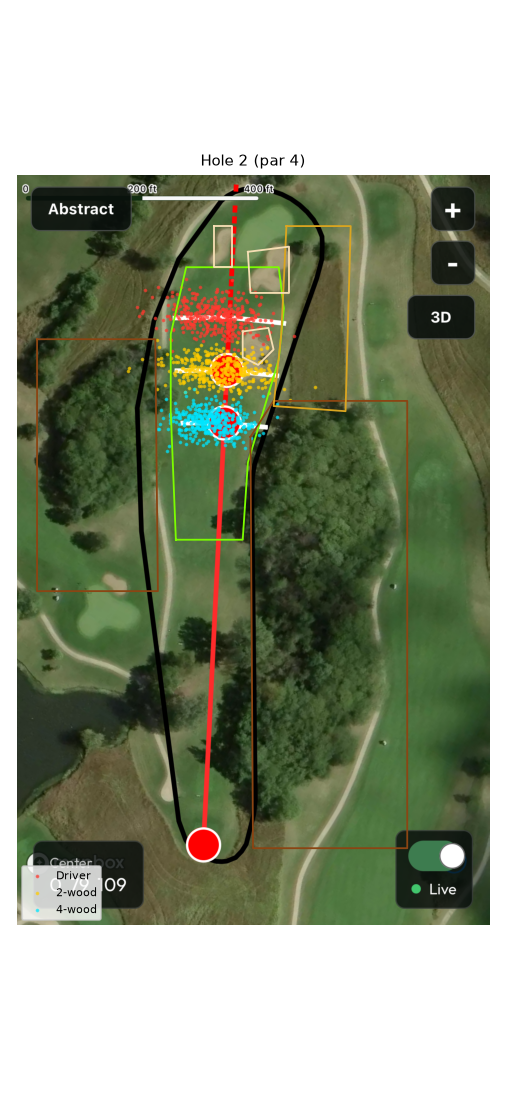
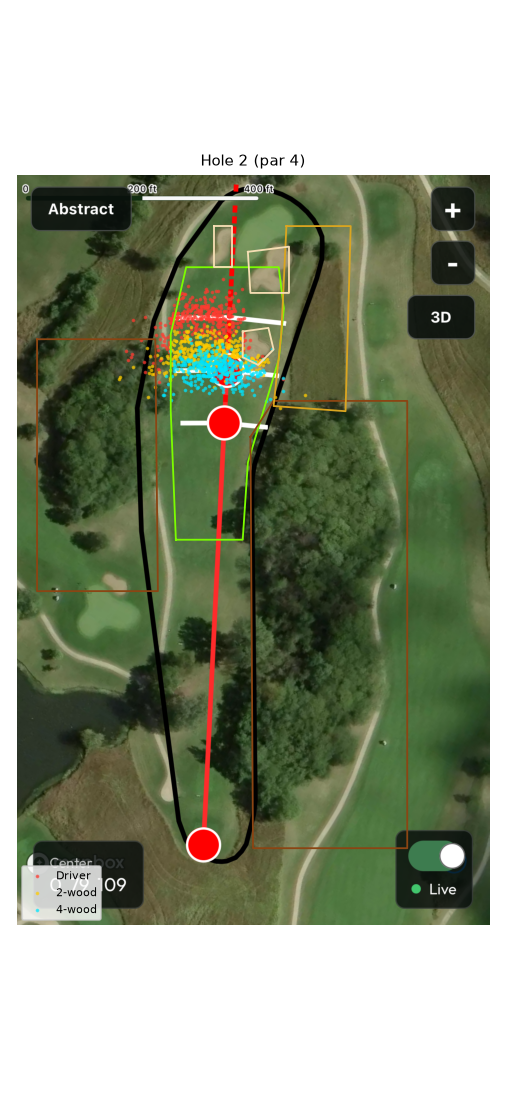
Model carry + rollout, update club numbers, add what-if scenarios
Driver 275/300, 2-wood 265/280, 4-wood 255/270 (carry/total). Balls now
land at carry and roll out, stopping in hazards. scenarios.py covers
wider dispersion, hole 2 driver carry, hole 4 prairie distance and a
shorter 4-wood on hole 1.

Claude-Session: https://claude.ai/code/session_011rKvZuUcU769YfPfktPsds

Changed region(s): [[0.2372, 0.2473, 0.5632, 0.4018]]

diff --git a/mozingo/tee_strategy.py b/mozingo/tee_strategy.py
@@ -3,7 +3,8 @@
 For each hole and each tee club we:
   1. Model the shot pattern as a 2-D normal around the aim point. The lateral
      "dispersion" width from the GPS app (65 / 60 / 50 yds) is treated as the
-     ~95% window (+/- 2 sigma), as in Fawcett's shot-pattern ellipses.
+     ~95% window (+/- 2 sigma), as in Fawcett's shot-pattern ellipses. Balls
+     land at carry, then roll out (less in rough, not at all in a hazard).
   2. Drop thousands of simulated tee shots onto hazard polygons traced from
      the satellite screenshots in ./screenshots.
   3. Score every landing spot with strokes-gained baselines (expected strokes
@@ -25,12 +26,14 @@ HERE = os.path.dirname(os.path.abspath(__file__))
 RNG = np.random.default_rng(7)
 N_SHOTS = 20000
 
-# name: (total yards, lateral 95% width, depth 95% window)
+# name: (carry yds, total yds on fairway, lateral 95% width, carry-depth 95% window)
 CLUBS = {
-    "Driver": (300, 65, 28),
-    "2-wood": (270, 60, 26),
-    "4-wood": (240, 50, 24),
+    "Driver": (275, 300, 65, 28),
+    "2-wood": (265, 280, 60, 26),
+    "4-wood": (255, 270, 50, 24),
 }
+ROUGH_ROLL = 0.3    # share of remaining roll kept once the ball is in rough
+HAZARDS = ("sand", "recovery", "native", "water")   # ball stops where it lands/enters
 
 # Expected strokes to hole out (Broadie, PGA Tour baseline), by distance in yds.
 DIST = [20, 40, 60, 80, 100, 120, 140, 160, 180, 200, 220, 240, 260, 280, 300]
@@ -130,17 +133,40 @@ def hole_frame(h):
     return tee, fwd, right, px_per_yd
 
 
+def lie_at(h, pts):
+    lie = np.array(["rough"] * len(pts), dtype=object)
+    for name, poly in h["zones"]:
+        lie[Path(poly).contains_points(pts)] = name
+    return lie
+
+
 def simulate(hole_no, club, aim_lat=0.0, n=N_SHOTS):
     h = HOLES[hole_no]
     tee, fwd, right, ppy = hole_frame(h)
-    dist, width, depth = CLUBS[club]
-    along = RNG.normal(dist, depth / 4, n)
+    carry, total, width, depth = CLUBS[club]
+    along = RNG.normal(carry, depth / 4, n)
     lat = RNG.normal(aim_lat, width / 4, n)
     pts = tee + (along[:, None] * fwd + lat[:, None] * right) * ppy
+    lie = lie_at(h, pts)
 
-    lie = np.array(["rough"] * n, dtype=object)
-    for name, poly in h["zones"]:
-        lie[Path(poly).contains_points(pts)] = name
+    # Roll out along the flight line in 2-yd steps: full roll on fairway,
+    # ROUGH_ROLL of it in rough, and the ball stops dead in any hazard.
+    heading = (pts - tee) / np.linalg.norm(pts - tee, axis=1)[:, None]
+    roll_left = np.full(n, float(total - carry))
+    roll_left[lie == "rough"] *= ROUGH_ROLL
+    while True:
+        moving = (roll_left > 0) & ~np.isin(lie, HAZARDS)
+        if not moving.any():
+            break
+        step = np.minimum(roll_left[moving], 2.0)
+        pts[moving] += heading[moving] * (step * ppy)[:, None]
+        roll_left[moving] -= step
+        new_lie = lie_at(h, pts[moving])
+        into_rough = (new_lie == "rough") & (lie[moving] == "fairway")
+        idx = np.flatnonzero(moving)
+        roll_left[idx[into_rough]] *= ROUGH_ROLL
+        lie[moving] = new_lie
+
     to_green = np.linalg.norm(pts - np.array(h["green"], float), axis=1) / ppy
 
     strokes = np.empty(n)

diff --git a/mozingo/scenarios.py b/mozingo/scenarios.py
@@ -1,0 +1,43 @@
+"""What-if checks on top of tee_strategy.py (run: python3 mozingo/scenarios.py)."""
+import copy
+import tee_strategy as t
+
+BASE_CLUBS = dict(t.CLUBS)
+BASE_HOLES = copy.deepcopy(t.HOLES)
+
+
+def compare(hole_no, label):
+    r = {c: t.best_aim(hole_no, c) for c in t.CLUBS}
+    best = min(r, key=lambda c: r[c]["ev"])
+    cells = ", ".join(f"{c} {r[c]['ev'] - r[best]['ev']:+.3f} (aim {r[c]['aim']:+.1f})" for c in r)
+    print(f"  {label:<38} best={best:<7} | {cells}")
+
+
+print("1) Wider-than-app dispersion (all clubs x1.3)")
+t.CLUBS = {k: (c, tot, w * 1.3, d) for k, (c, tot, w, d) in BASE_CLUBS.items()}
+for h in t.HOLES:
+    compare(h, f"hole {h}")
+t.CLUBS = dict(BASE_CLUBS)
+
+print("\n2) Hole 2: how much does the driver's carry matter?")
+for carry in (265, 275, 290, 305):
+    t.CLUBS = dict(BASE_CLUBS, Driver=(carry, carry + 25, 65, 28))
+    compare(2, f"driver carry {carry} / total {carry + 25}")
+t.CLUBS = dict(BASE_CLUBS)
+
+print("\n3) Hole 4: move the left prairie toward the line until 2-wood wins")
+# traced edge sits ~40 yds left of the app line at 300 yds; push its right edge in.
+ppy = t.hole_frame(t.HOLES[4])[3]
+for yds_in in (0, 10, 15, 20, 25, 30):
+    t.HOLES = copy.deepcopy(BASE_HOLES)
+    zones = t.HOLES[4]["zones"]
+    i = next(i for i, z in enumerate(zones) if z[0] == "native")
+    dx = yds_in * ppy
+    zones[i] = ("native", [(200, 550), (370 + dx, 550), (365 + dx, 900), (200, 900)])
+    compare(4, f"prairie edge {40 - yds_in} yds left of line")
+t.HOLES = copy.deepcopy(BASE_HOLES)
+
+print("\n4) Hole 1: 4-wood shorter & tighter (240 carry / 260 total, 45 wide)")
+t.CLUBS = dict(BASE_CLUBS, **{"4-wood": (240, 260, 45, 22)})
+compare(1, "4-wood 240/260")
+t.CLUBS = dict(BASE_CLUBS)

diff --git a/mozingo/README.md b/mozingo/README.md
@@ -1,36 +1,45 @@
 # Mozingo Lake GC — tee-club strategy (Fawcett / DECADE method)
 
-Clubs (from the GPS app): **Driver 300 yds / 65 yd dispersion**, **2-wood 270 / 60**, **4-wood 240 / 50**.
+Clubs (carry / total on fairway / lateral dispersion):
+**Driver 275 / 300 / 65**, **2-wood 265 / 280 / 60**, **4-wood 255 / 270 / 50**.
 
 Run it: `python3 mozingo/tee_strategy.py` (needs `numpy`, `matplotlib`). Writes
 `output/results_table.md` and one shot-pattern overlay per hole.
+`python3 mozingo/scenarios.py` runs the what-if checks below.
 
 ## Recommendations (holes 1–6, par 3 #5 skipped)
 
-| Hole | Par | Play | Aim | Strokes saved vs next-best club |
-|---|---|---|---|---|
-| 1 | 4 | **2-wood** | ~2 yds right of app line | 0.03 vs driver, 0.06 vs 4-wood |
-| 2 | 4 | **Driver** | ~7 yds left (away from bunker / trees / prairie on the right) | 0.09 vs 2-wood |
-| 3 | 5 | **Driver** | ~10 yds left (trees line the right side) | 0.19 vs 2-wood |
-| 4 | 4 | **Driver** | on the line | 0.07 vs 2-wood |
-| 6 | 5 | **Driver** | on the line (lake is ~100 yds left, out of play) | 0.19 vs 2-wood |
+| Hole | Play | Aim | Margin over next-best club |
+|---|---|---|---|
+| 1 (par 4) | **4-wood** (2-wood is equal) | ~2 yds right of app line | 0.006 vs 2-wood, 0.03 vs driver |
+| 2 (par 4) | **4-wood** | ~5 yds left | 0.03 vs driver |
+| 3 (par 5) | **Driver** | ~12 yds left (trees line the right side) | 0.11 vs 2-wood |
+| 4 (par 4) | **Driver** | on the line | 0.05 vs 2-wood |
+| 6 (par 5) | **Driver** | ~5 yds left | 0.13 vs 2-wood |
 
-Hole 1 is the only lay-up. At 300 the driver pattern reaches the tree clump
-on the left (270–320 yds) and the trees right of the cart path (~10–12% of
-drives end up blocked). The 2-wood stays short of most of that and still
-leaves only about 100 yds. It's close (0.03 strokes), so take driver if
-the wind is helping and the pin is easy. Everywhere else the extra 30 yds is
-worth more than the extra misses. That's Fawcett's usual result: lay up only
-when a penalty or a blocked-out lie sits inside the driver pattern but
-outside the shorter club's pattern.
+## What-if checks (`scenarios.py`)
 
-The picks hold if your real dispersion is 30% wider than the app's numbers.
-Hole 1 then favours the 2-wood by more (0.07).
+- **Hole 1, 4-wood:** with the 255-carry 4-wood, it ties the 2-wood. Both beat
+  driver because about 8% of drives finish in the trees at 270–320. Hitting
+  the shorter 4-wood (240 carry / 260 total) costs about 0.01 strokes.
+  The extra accuracy doesn't pay for the extra 10 yds.
+- **Hole 2, driver carry:** with a 275 carry, the driver lands right on the
+  bunker on the right (273–294 yds), and about 10% finish in sand. The
+  4-wood stays short of it. Driver only wins again once it carries about
+  290 (e.g. downwind), because then it flies the bunker.
+- **Hole 4, left prairie:** traced, the prairie edge is ~40 yds left of the
+  line at 300+. Driver reaches it <1% of the time. 2-wood only becomes
+  correct if that edge is within ~17 yds of the line. Driver is the play
+  unless the prairie is a lot closer than the satellite image shows.
+- **Dispersion 30% wider than the app's:** same picks on every hole, and
+  bigger margins for the 4-wood on holes 1 and 2.
 
 ## Method
 
-1. **Shot pattern:** 2-D normal around the aim point. The app's dispersion
-   width is treated as ±2σ (95% of shots), and the depth window is ±2σ ≈ 24–28 yds.
+1. **Shot pattern:** carry spot is a 2-D normal around the aim point. The
+   app's dispersion width is treated as ±2σ (95% of shots), and the carry-depth
+   window is ±2σ ≈ 24–28 yds. The ball then rolls out along its line: full roll
+   on fairway, 30% in rough, and none once it is in a hazard.
 2. **Course map:** fairway, trees, bunkers, native prairie and water polygons
    traced from the satellite screenshots in `screenshots/`. Yardage scale is
    calibrated from the app's own 270-yd dot on every hole.
@@ -46,4 +55,4 @@ Hole 1 then favours the 2-wood by more (0.07).
   Hole 4's imagery is cloud-shadowed, so its fairway edges are a best guess.
 - Tour baselines make the absolute scores optimistic. The *differences*
   between clubs are what matter.
-- Elevation, wind and rollout aren't modelled. The club distances are total yards.
+- Elevation, wind and slope-driven roll aren't modelled.

diff --git a/mozingo/output/results_table.md b/mozingo/output/results_table.md
@@ -1,17 +1,17 @@
 | Hole | Par | Club | Aim (yds, +R) | Approach left | Fairway | Rough | Sand | Trees | Native | Water | Exp. score | vs best |
 |---|---|---|---|---|---|---|---|---|---|---|---|---|
-| 1 | 4 | Driver | +7.5 | 73 | 81% | 7% | 0% | 12% | 0% | 0% | 3.870 | +0.029 |
-| 1 | 4 | 2-wood **<- play** | +2.5 | 103 | 91% | 8% | 0% | 2% | 0% | 0% | 3.841 | +0.000 |
-| 1 | 4 | 4-wood | +2.5 | 132 | 96% | 4% | 0% | 0% | 0% | 0% | 3.896 | +0.055 |
-| 2 | 4 | Driver **<- play** | -7.5 | 54 | 89% | 8% | 3% | 0% | 1% | 0% | 3.709 | +0.000 |
-| 2 | 4 | 2-wood | -5.0 | 82 | 92% | 3% | 3% | 1% | 1% | 0% | 3.797 | +0.088 |
-| 2 | 4 | 4-wood | -7.5 | 111 | 94% | 3% | 0% | 2% | 0% | 0% | 3.858 | +0.149 |
-| 3 | 5 | Driver **<- play** | -10.0 | 218 | 94% | 6% | 0% | 0% | 0% | 0% | 4.319 | +0.000 |
-| 3 | 5 | 2-wood | -17.5 | 248 | 96% | 3% | 0% | 1% | 0% | 0% | 4.510 | +0.191 |
-| 3 | 5 | 4-wood | -20.0 | 278 | 99% | 1% | 0% | 0% | 0% | 0% | 4.680 | +0.360 |
-| 4 | 4 | Driver **<- play** | +2.5 | 63 | 92% | 8% | 0% | 0% | 0% | 0% | 3.724 | +0.000 |
-| 4 | 4 | 2-wood | +0.0 | 92 | 92% | 8% | 0% | 0% | 0% | 0% | 3.798 | +0.074 |
-| 4 | 4 | 4-wood | +2.5 | 122 | 95% | 5% | 0% | 0% | 0% | 0% | 3.867 | +0.144 |
-| 6 | 5 | Driver **<- play** | -2.5 | 192 | 98% | 2% | 0% | 0% | 0% | 0% | 4.153 | +0.000 |
-| 6 | 5 | 2-wood | -7.5 | 222 | 97% | 1% | 2% | 0% | 0% | 0% | 4.343 | +0.191 |
-| 6 | 5 | 4-wood | -7.5 | 252 | 99% | 0% | 1% | 0% | 0% | 0% | 4.530 | +0.378 |
+| 1 | 4 | Driver | +5.0 | 75 | 77% | 15% | 0% | 8% | 0% | 0% | 3.854 | +0.032 |
+| 1 | 4 | 2-wood | +2.5 | 94 | 87% | 11% | 0% | 2% | 0% | 0% | 3.828 | +0.006 |
+| 1 | 4 | 4-wood **<- play** | +2.5 | 103 | 94% | 6% | 0% | 0% | 0% | 0% | 3.822 | +0.000 |
+| 2 | 4 | Driver | -12.5 | 60 | 73% | 13% | 10% | 4% | 1% | 0% | 3.810 | +0.031 |
+| 2 | 4 | 2-wood | -10.0 | 74 | 83% | 6% | 7% | 2% | 1% | 0% | 3.817 | +0.037 |
+| 2 | 4 | 4-wood **<- play** | -5.0 | 81 | 95% | 2% | 2% | 1% | 0% | 0% | 3.780 | +0.000 |
+| 3 | 5 | Driver **<- play** | -12.5 | 219 | 90% | 8% | 0% | 2% | 0% | 0% | 4.344 | +0.000 |
+| 3 | 5 | 2-wood | -17.5 | 238 | 94% | 5% | 0% | 1% | 0% | 0% | 4.455 | +0.111 |
+| 3 | 5 | 4-wood | -17.5 | 248 | 98% | 2% | 0% | 0% | 0% | 0% | 4.507 | +0.163 |
+| 4 | 4 | Driver **<- play** | +0.0 | 63 | 89% | 11% | 0% | 0% | 0% | 0% | 3.732 | +0.000 |
+| 4 | 4 | 2-wood | +0.0 | 83 | 91% | 9% | 0% | 0% | 0% | 0% | 3.777 | +0.046 |
+| 4 | 4 | 4-wood | +0.0 | 92 | 95% | 5% | 0% | 0% | 0% | 0% | 3.791 | +0.059 |
+| 6 | 5 | Driver **<- play** | -5.0 | 192 | 96% | 2% | 1% | 0% | 1% | 0% | 4.165 | +0.000 |
+| 6 | 5 | 2-wood | -12.5 | 212 | 96% | 1% | 2% | 0% | 1% | 0% | 4.291 | +0.126 |
+| 6 | 5 | 4-wood | -12.5 | 222 | 98% | 0% | 1% | 0% | 0% | 0% | 4.343 | +0.178 |
